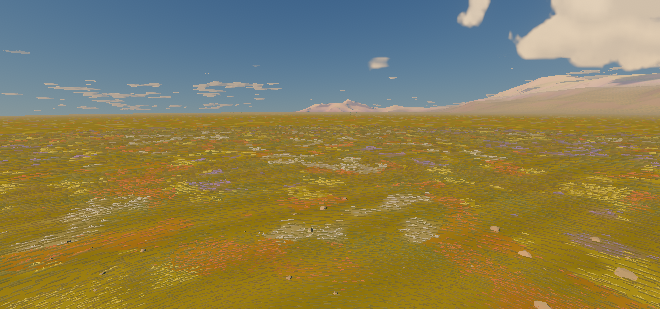
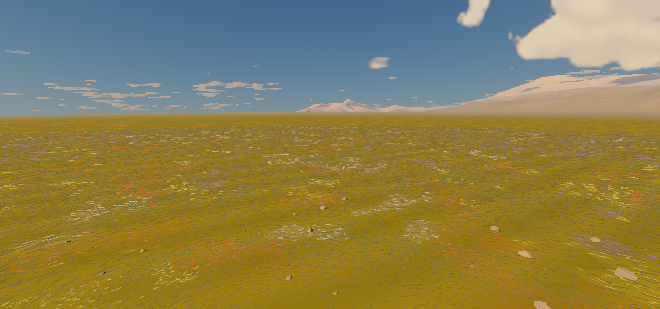
Grass: the stretches of taller and drier grass no longer a chequerboard from the air; fainter, less regular waves on the ground; second steppe pictures
Claude-Session: https://claude.ai/code/session_01XG1DZ6vKJWJCvxUHNSpiWP

Changed region(s): [[0.0, 0.4078, 1.0, 1.0]]

diff --git a/src/life/grass.js b/src/life/grass.js
@@ -143,8 +143,10 @@ const PRELUDE = /* glsl */`
   // stretches of taller and shorter, greener and drier grass, some metres across (in the
   // ground's own coordinates: a whole number of waves in PERIOD)
   float lieAt(vec2 at) {
-    vec2 p = at + uGrassLie;
-    return sin(p.x * 0.13009 + 2.0 * sin(p.y * 0.07118)) * sin(p.y * 0.11045 + 1.7 + 1.5 * sin(p.x * 0.05400));
+    // (two bent waves that cross at a slant: a product of an east wave and a north wave
+    // was a chequerboard, woven across the whole field seen from 100 m up)
+    vec2 p = (at + uGrassLie) * ${(2 * Math.PI / PERIOD).toFixed(8)};
+    return 0.55 * sin(47.0 * p.x + 23.0 * p.y + 2.2 * sin(11.0 * p.y - 7.0 * p.x)) + 0.45 * sin(53.0 * p.y - 19.0 * p.x + 1.7 + 1.9 * sin(9.0 * p.x + 5.0 * p.y + 2.0 * sin(3.0 * p.y - 2.0 * p.x)));
   }
   // the wind over the field: which way and how hard it bends grass (east, north), and where the wave is (0..1)
   vec3 windAt(vec3 rel, float own) {
@@ -252,7 +254,7 @@ const CLUMP_VERT = /* glsl */`
   out vec3 vFoot, vTip; out vec4 vFlower;
   void main() {
     vec2 cell, rc = latticeCell(cell), h = hash2(cell), h2 = hash2(cell + 17.31);
-    vec2 rel2 = rc + (h - 0.5) * 0.8 * SPACING, at = rel2 + uGrassCam.xy;
+    vec2 rel2 = rc + (h - 0.5) * 0.98 * SPACING, at = rel2 + uGrassCam.xy;
     float dist = length(rel2);
     // (this field's ring: in over IN0..IN1, out over OUT0..OUT1; the traveller's height; the governor)
     float ring = smoothstep(IN0, IN1, dist) * (1.0 - smoothstep(OUT0, OUT1, dist)) * uGrassKeep.y;

diff --git a/src/terrain/terrainMaterial.js b/src/terrain/terrainMaterial.js
@@ -516,7 +516,7 @@ void main() {
       vec3 gc = grassColour(uGrassTone.x, 0.62) * (0.82 + 0.36 * d1.g);
       // (the waves: paler where they bow the grass; gone where a wave is narrower than a pixel or two)
       float arg = dot(vRel, uGrassWave.xyz) + uGrassWave.w;
-      gc *= 1.0 + 0.12 * sin(arg) * (1.0 - smoothstep(0.7, 1.8, fwidth(arg)));
+      gc *= 1.0 + 0.07 * sin(arg + 5.0 * (d1.g - 0.5)) * (1.0 - smoothstep(0.7, 1.8, fwidth(arg)));
       // (the drifts of flowers, where the clumps and blades have them)
       vec2 fw = flowersAt(planetPos, int(uGrassTone.z + 0.5));
       // (a tint, never a patch: its edge broken by the ground's own grain, less of it for
